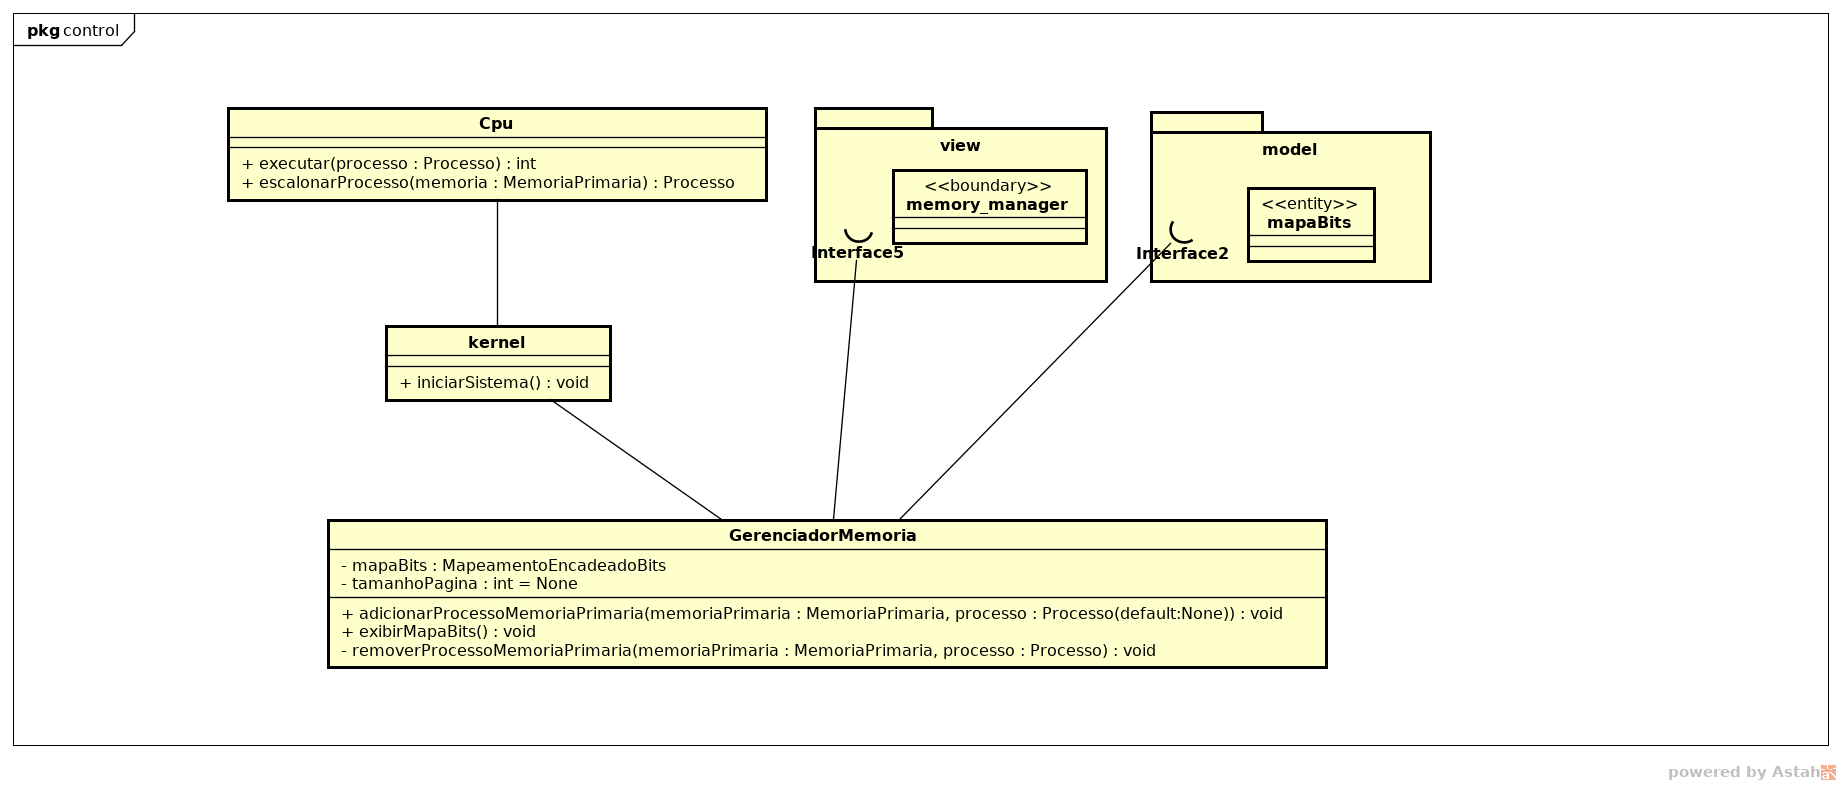
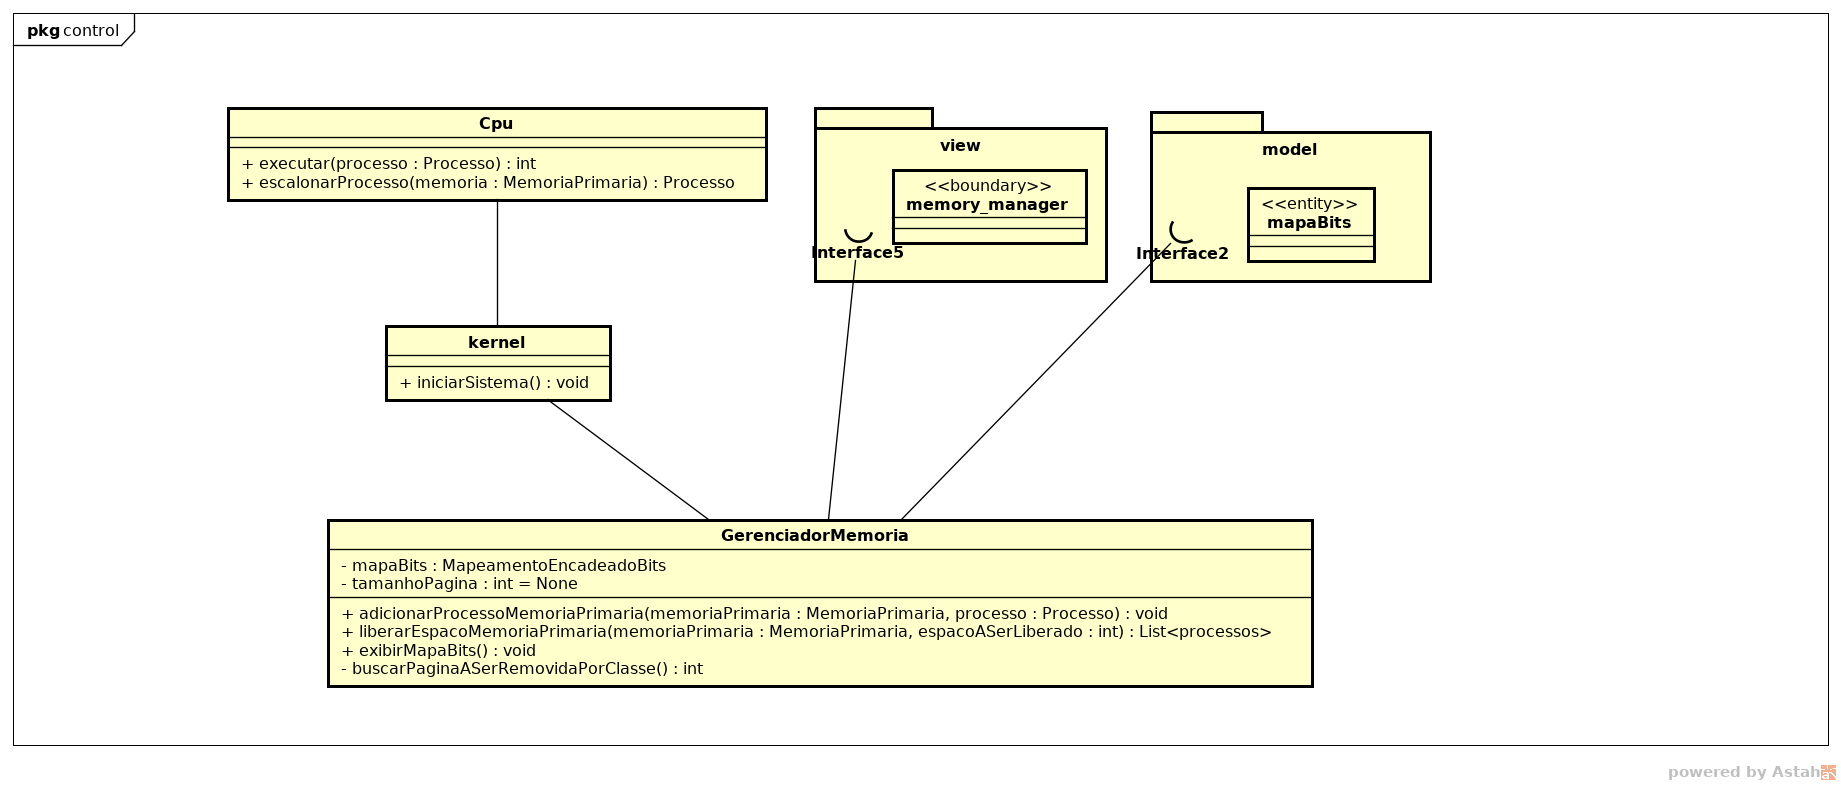
Conclusão de alterações nas funções da classe GerenciadorMemoria.

diff --git a/gerenciadorMemoria.py b/gerenciadorMemoria.py
@@ -17,43 +17,15 @@ class GerenciadorMemoria:
         self._mapaBits = MapeamentoEncadeadoBits()
         self._tamanhoPagina = tamanhoPagina
 
-    def adicionarProcessoMemoriaPrimaria( self, memoriaPrimaria, processo, tamanhoPagina = None ):
+    def adicionarProcessoMemoriaPrimaria( self, memoriaPrimaria, processo ):
 
-        # Retorna falsa se não há processo no disco
-        # Se existe processo no disco verdadeiro
-        quantidadePosicoesOcupadasMemoria = len( memoriaPrimaria.posicoesMemoria )
-        tamanhoMaxMemoria = memoriaPrimaria.tamanhoMemoria
-
-        if( tamanhoPagina == None ):
+        if( self._tamanhoPagina == None ):
             espacoOcupadoProcesso = processo.tamanhoProcesso
         else:
-            espacoOcupadoProcesso = tamanhoPagina
-
-        if( quantidadePosicoesOcupadasMemoria + espacoOcupadoProcesso > tamanhoMaxMemoria ):
-            self._liberarEspacoMemoriaPrimaria( memoriaPrimaria, espacoOcupadoProcesso )
-        '''
-            # REMOVER USANDO ALGORÍTIMO DE SUBSTITUIÇÃO DE PÁGINA LRU
-            while( quantidadePosicoesOcupadasMemoria + espacoOcupadoProcesso > tamanhoMaxMemoria ):
-
-                indicePosicaoInicialProcessoASerRemovidoMemoria = self._buscarPaginaASerRemovidaPorClasse()
-                if( indicePosicaoInicialProcessoASerRemovidoMemoria != -1 ):
-                    idProcessoASerRemovido = memoriaPrimaria.posicoesMemoria[ indicePosicaoInicialProcessoASerRemovidoMemoria ]
-
-                    memoriaPrimaria.liberarMemoria( indicePosicaoInicialProcessoASerRemovidoMemoria, espacoOcupadoProcesso )
-                
-                    indiceSegmentoASerRemovido = self._mapaBits.buscarIndiceSegmentoPorIdProcesso( idProcessoASerRemovido )
-                    self._mapaBits.removerSegmento( indiceSegmentoASerRemovido )
-
-                    quantidadePosicoesOcupadasMemoria = len( memoriaPrimaria.posicoesMemoria )
-
-                else:
-                    print( "Não foram encontradas paginas com classes de substituição definidas." )
-
-            # Fim de remover segmento
-        '''
+            espacoOcupadoProcesso = self._tamanhoPagina
 
         posicaoInicial = self._mapaBits.indiceMemoriaLivre
-        memoriaPrimaria.adicionarProcessoMemoria( processo, posicaoInicial, espacoOcupadoProcesso)
+        memoriaPrimaria.adicionarProcessoMemoria( processo, posicaoInicial, espacoOcupadoProcesso )
 
         segmento = Segmento()
         segmento.processo = processo
@@ -62,7 +34,7 @@ class GerenciadorMemoria:
 
         self._mapaBits.adicionarSegmento( segmento )
 
-    def _liberarEspacoMemoriaPrimaria( self, memoriaPrimaria, espacoASerLiberado ):
+    def liberarEspacoMemoriaPrimaria( self, memoriaPrimaria, espacoASerLiberado ):
         listaProcessosRemovidos = []
         quantidadePosicoesOcupadasMemoria = len( memoriaPrimaria.posicoesMemoria )
         tamanhoMaxMemoria = memoriaPrimaria.tamanhoMemoria
@@ -72,9 +44,13 @@ class GerenciadorMemoria:
 
             indicePosicaoInicialProcessoASerRemovidoMemoria = self._buscarPaginaASerRemovidaPorClasse()
             if( indicePosicaoInicialProcessoASerRemovidoMemoria != -1 ):
-                idProcessoASerRemovido = memoriaPrimaria.posicoesMemoria[ indicePosicaoInicialProcessoASerRemovidoMemoria ]
+                idProcessoASerRemovido = memoriaPrimaria.posicoesMemoria[ indicePosicaoInicialProcessoASerRemovidoMemoria ].idProcesso
+                if( self._tamanhoPagina == None ):
+                    tamanhoPaginaProcessoASerRemovido = memoriaPrimaria.posicoesMemoria[ indicePosicaoInicialProcessoASerRemovidoMemoria ].tamanhoProcesso
+                else:
+                    tamanhoPaginaProcessoASerRemovido = self._tamanhoPagina
 
-                processoRemovido = memoriaPrimaria.liberarMemoria( indicePosicaoInicialProcessoASerRemovidoMemoria, espacoASerLiberado )
+                processoRemovido = memoriaPrimaria.liberarMemoria( indicePosicaoInicialProcessoASerRemovidoMemoria, tamanhoPaginaProcessoASerRemovido )
                 listaProcessosRemovidos.append( processoRemovido )
             
                 indiceSegmentoASerRemovido = self._mapaBits.buscarIndiceSegmentoPorIdProcesso( idProcessoASerRemovido )
@@ -89,10 +65,9 @@ class GerenciadorMemoria:
 
         # Fim de remover segmento
 
-
-
-
-
+    def exibirMapaBits( self ):
+        self._mapaBits.exibirMapaBits()
+    
     def _buscarPaginaASerRemovidaPorClasse( self ):
         self._mapaBits.atualizarClassesSubstituicaoPagina()
 
@@ -135,64 +110,7 @@ class GerenciadorMemoria:
             self._mapaBits.adicionarSegmento( segmento )
 
     '''
-    
 
-    '''
-    def _removerProcessoMemoriaPrimaria( self, memoriaPrimaria, processo, tamanhoPagina ):
-
-        if( processo == None ):
-            processoRemovido = memoriaPrimaria.liberarMemoria( self._tamanhoPagina )
-
-            self._mapaBits.removerSegmento()
-            
-            #tempoVidaProcessoRemovido = processoRemovido.tempoVida
-
-            # QUEM FARÁ ESSE CONTROLE SERÁ O KERNEL
-            #if( tempoVidaProcessoRemovido > 0 ):
-            #    MemoriaSecundaria.armazenarProcesso( processoRemovido )
-
-        else:
-            quantidadePosicoesOcupadasMemoria = len( memoriaPrimaria.posicoesMemoria )
-            tamanhoProcesso = processo.tamanhoProcesso
-            tamanhoMaxMemoria = memoriaPrimaria.tamanhoMemoria
-
-            while( quantidadePosicoesOcupadasMemoria + tamanhoProcesso >= tamanhoMaxMemoria ):
-                processoRemovido = memoriaPrimaria.liberarMemoria()
-
-                self._mapaBits.removerSegmento()
-                
-                tempoVidaProcessoRemovido = processoRemovido.tempoVida
-
-                if( tempoVidaProcessoRemovido > 0 ):
-                    MemoriaSecundaria.armazenarProcessoDisco( processoRemovido )
-
-                quantidadePosicoesOcupadasMemoria = len( memoriaPrimaria.posicoesMemoria )  
-
-    # Obsoleto
-    def buscarProcessoASerRemovido( self, memoriaPrimaria ):
-    
-        Método de busca de processo a ser removido a partir de algorítimo de substituição de
-        página LRU
-        
-        :int tempoVida:
-        :field tempoVida: define o tempo de vida útil do processo
-
-        indiceSegmento = -1
-        processoASerRemovido = None
-        for i in range( 0, 4 ):
-            indiceSegmento = self._mapaBits.buscarSegmentoPorClasseSubstiuticao( i )
-            if( indiceSegmento != -1 ):
-                segmentoProcessoASerRemovido = self._mapaBits[indiceSegmento]
-                processoASerRemovido = segmentoProcessoASerRemovido.processo
-
-        return processoASerRemovido
-    '''
-
-
-
-    
-    def exibirMapaBits( self ):
-        self._mapaBits.exibirMapaBits()
 
     @property
     def tamanhoPagina( self ):
